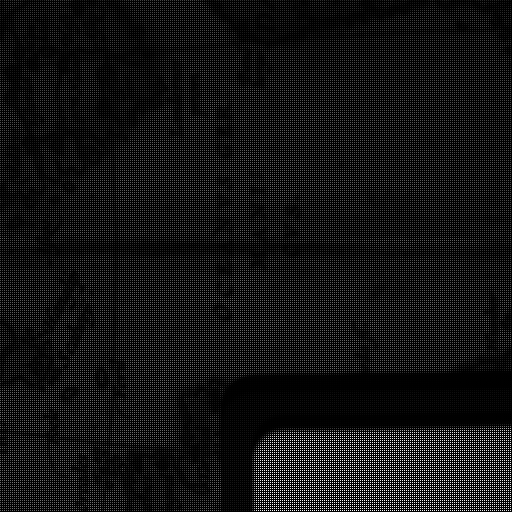
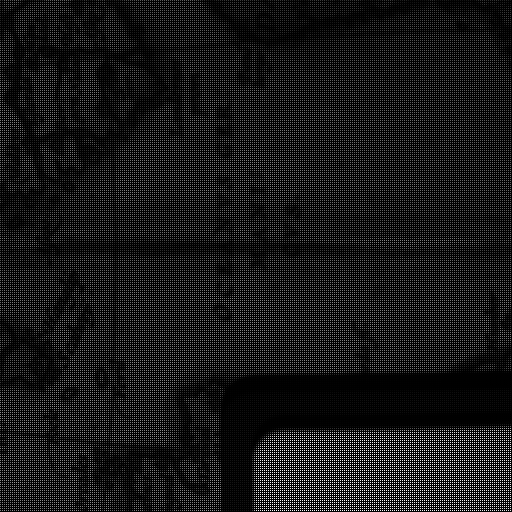
rgb_images

diff --git a/main.py b/main.py
@@ -18,12 +18,15 @@ def main(config):
     # Example usage:
     print("Loading hyperspectral image...")
     metadata = processor.get_metadata()
+    print(metadata)
+    # exit()
     wavelengths = processor.get_wavelengths()
     print("=====================================================")
     
     
     print("Creating RGB image...")
     rgb_image = processor.create_rgb_image(config.rgb_indices)
+    save_image(rgb_image, filename="RGB", directory=config.output_dir, format="png")
     normalized_rgb = processor.normalize_uint8(rgb_image)
     print("=====================================================")
     
@@ -49,7 +52,10 @@ def main(config):
     
     print("Evaluating image quality...")
     ssim = None
-    psnr = None
+    # psnr = peak_signal_noise_ratio(rgb_image, demosaiced)
+    mse = mean_squared_error(rgb_image, demosaiced)
+    # print(f"PSNR: {psnr:.2f} dB")
+    print(f"MSE: {mse:.2f}")
     
     
 

diff --git a/config.py b/config.py
@@ -2,6 +2,6 @@ from typing import Tuple
 class Config:
     hsi_path: str = "database/REFLECTANCE_HS-DATASET_2023-03-23_005.hdr"
     output_dir: str = "output"
-    rgb_indices: Tuple[int, int, int] = (29, 19, 9)
+    rgb_indices: Tuple[int, int, int] = (70, 53, 19)
     band_indices: Tuple[int, ...] = (29,)
     pattern: str = "RGGB"
